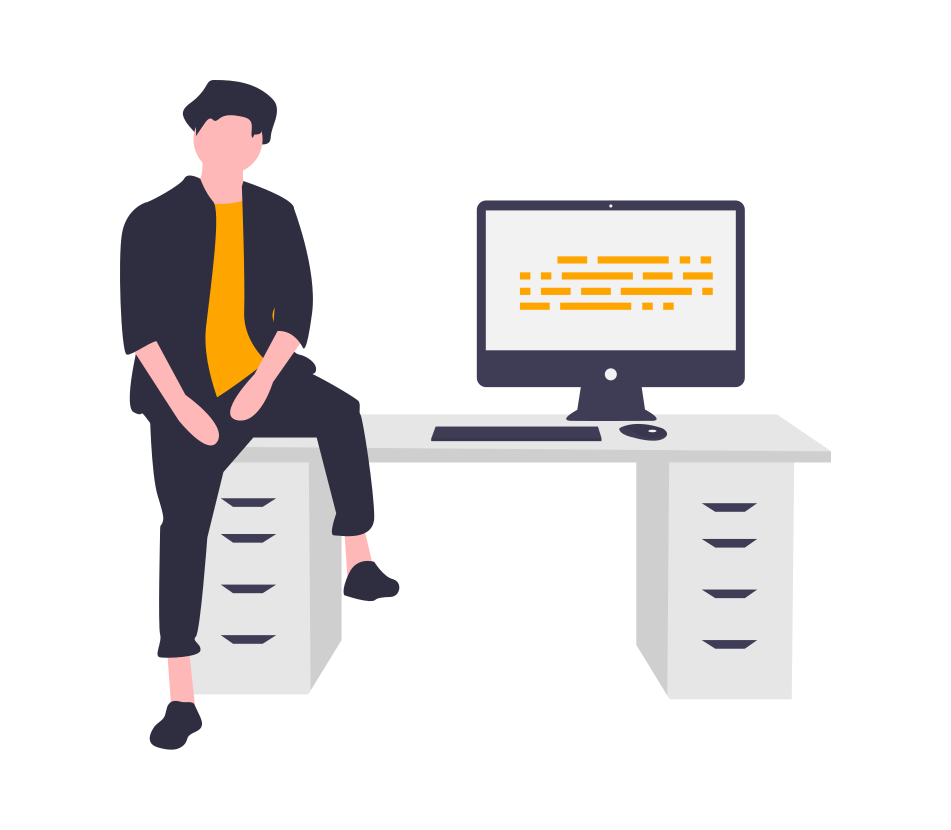
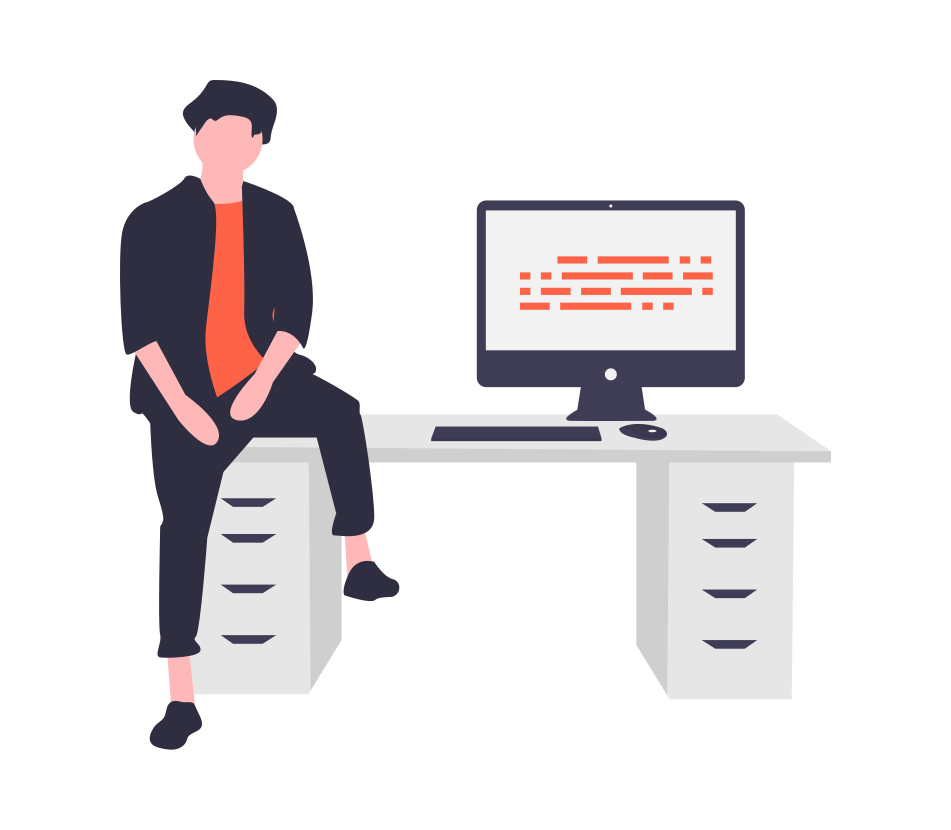
Complete the project

Changed region(s): [[0.5489, 0.3012, 0.7624, 0.3916], [0.2135, 0.241, 0.2744, 0.4819]]

diff --git a/index.html b/index.html
@@ -1,26 +1,93 @@
 <!DOCTYPE html>
 <html lang="en">
+    <head>
+        <meta charset="UTF-8" />
+        <meta name="viewport" content="width=device-width, initial-scale=1.0" />
+        <link
+            href="https://fonts.googleapis.com/css2?family=Poppins:wght@400;700&display=swap"
+            rel="stylesheet"
+        />
+        <link rel="stylesheet" href="style.css" />
+        <title>Abid Hasan Snigdho</title>
+    </head>
 
-<head>
-    <meta charset="UTF-8">
-    <meta name="viewport" content="width=device-width, initial-scale=1.0">
-    <link href="https://fonts.googleapis.com/css2?family=Poppins:wght@400;700&display=swap" rel="stylesheet">
-    <link rel="stylesheet" href="style.css">
-    <title>Abid Hasan Snigdho</title>
-</head>
+    <body>
+        <section id="top-banner">
+            <div class="half-width">
+                <h1>Welcome to</h1>
+                <h1><span class="highlight">Abid</span>'s Portfolio</h1>
+                <h3>Professional Web Developer</h3>
+                <p>
+                    Lorem ipsum dolor sit amet, consectetur adipisicing elit.
+                    Cupiditate, dolorem eius doloribus consectetur nobis, quae
+                    illo voluptates saepe assumenda eum, atque molestiae?
+                    Perferendis facere quam nam qui ipsa culpa, labore cumque
+                    eius error vitae eaque architecto eos doloribus, rerum quas.
+                </p>
+                <a
+                    class="link-button"
+                    href="https://fb.com/AHSnigdho.official"
+                    target="_blank"
+                    >HIRE ME</a
+                >
+            </div>
+            <div class="half-width">
+                <img src="images/undraw_feeling_proud_qne1.png" alt="" />
+            </div>
+        </section>
 
-<body>
-    <section>
-        <div class="half-width">
-            <h1>Welcome to</h1>
-            <h1><span class="orange-highlight">Abid</span>'s Portfolio</h1>
-            <h3>Professional Web Developer</h3>
-            <p>Lorem ipsum dolor sit amet, consectetur adipisicing elit. Cupiditate, dolorem eius doloribus consectetur nobis, quae illo voluptates saepe assumenda eum, atque molestiae? Perferendis facere quam nam qui ipsa culpa, labore cumque eius error vitae eaque architecto eos doloribus, rerum quas.</p>
-        </div>
-        <div class="half-width">
-            <img src="images/undraw_feeling_proud_qne1.png" alt="">
-        </div>
-    </section>
-</body>
+        <section id="about">
+            <div class="half-width">
+                <img src="images/undraw_programming_2svr.png" alt="" />
+            </div>
+            <div class="half-width">
+                <h2>About</h2>
+                <h3>Full Stack MERN Developer</h3>
+                <p>
+                    Mipsum dolor sit amet consectetur, adipisicing elit.
+                    Repudiandae quis cum, fugiat eum velit blanditiis. Sequi
+                    quasi minus vel aliquid rem impedit labore consequatur
+                    repellendus tenetur officia. Dicta doloremque natus
+                    laboriosam odio, facilis excepturi fugit! Perferendis sunt
+                    neque fugit consectetur, aspernatur earum tempore id ex qui
+                    accusantium, adipisci vero harum.
+                </p>
+                <a
+                    class="link-button"
+                    href="https://fb.com/AHSnigdho.official"
+                    target="_blank"
+                    >DOWNLOAD RESUME</a
+                >
+            </div>
+        </section>
 
+        <section id="experiences">
+            <h2>Experiences</h2>
+            <div id="experience-1" class="half-width experience">
+                <h2>Full Stack Web Developer</h2>
+                <h3 class="highlight">2020 - Present | Genie Inc.</h3>
+                <p>
+                    Ulor sit amet consectetur adipisicing elit. Ab quam, eos
+                    quibusdam autem laborum aliquam cum natus ipsam ad nisi
+                    nulla fuga, pariatur praesentium asperiores. Tenetur nostrum
+                    quam quas, in illum expedita labore animi nemo.
+                </p>
+            </div>
+            <div id="experience-2" class="half-width experience">
+                <h2>Junior Web Developer</h2>
+                <h3 class="highlight">2018 - 2019 | Sahara Tech</h3>
+                <p>
+                    Sit amet consectetur adipisicing elit. Ab quam, eos
+                    quibusdam autem laborum aliquam cum natus ipsam ad nisi
+                    nulla fuga, pariatur praesentium asperiores. Tenetur nostrum
+                    quam quas, in illum expedita labore animi ipsum dolor sit
+                    amet consectetur adipisicing elit. Maxime, doloremque.
+                </p>
+            </div>
+        </section>
+
+        <footer>
+            <p>&copy; AHS. All rights reserved.</p>
+        </footer>
+    </body>
 </html>

diff --git a/style.css b/style.css
@@ -1,22 +1,97 @@
 body {
-	font-family: 'Poppins', sans-serif;
+    margin: 0;
+    font-family: "Poppins", sans-serif;
 }
 
 h1 {
-	font-size: 50px;
+    font-size: 50px;
 }
 
-.orange-highlight {
-	color: orange;
+h2 {
+    font-size: 40px;
+}
+
+p {
+    color: dimgray;
+}
+
+.highlight {
+    color: tomato;
 }
 
 .half-width {
-	width: 40%;
-	float: left;
-	margin-left: 5%;
-	padding-left: 2%;
+    width: 40%;
+    float: left;
+    margin-left: 5%;
+    padding-left: 2%;
 }
 
 .half-width img {
-	width: 100%;
+    width: 100%;
+}
+
+#top-banner {
+    background-image: url("images/top-banner.png");
+    background-repeat: no-repeat;
+}
+
+#about {
+    background-image: url("images/dream-bg.png");
+    background-repeat: no-repeat;
+    background-position: right;
+}
+
+section {
+    height: 500px;
+    margin-bottom: 150px;
+}
+
+.link-button {
+    text-decoration: none;
+    background-image: linear-gradient(45deg, lightsalmon, tomato);
+    padding: 10px 20px;
+    border-radius: 10px;
+    color: white;
+}
+
+#top-banner p,
+#about p {
+    margin-bottom: 30px;
+}
+
+#experiences {
+    background-image: url(images/exp-bg.png);
+    background-repeat: no-repeat;
+    background-position: left;
+}
+
+#experiences h2 {
+    font-size: 25px;
+}
+#experiences > h2 {
+    font-size: 40px;
+    text-align: center;
+}
+
+.experience {
+    height: 60%;
+    box-shadow: 10px 10px 40px gray;
+    border-radius: 5px;
+}
+
+#experience-1 {
+    border-left: 7px solid;
+    border-image: linear-gradient(lightsalmon, tomato);
+    border-image-slice: 1;
+}
+
+#experience-2 {
+    border-left: 7px solid;
+    border-image: linear-gradient(blue, cyan);
+    border-image-slice: 1;
+}
+
+footer p {
+    text-align: center;
+    font-size: 12px;
 }
